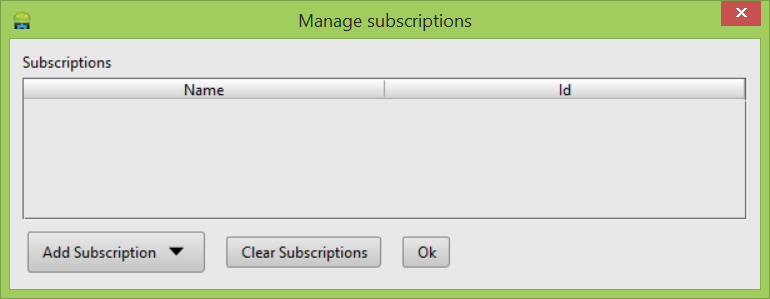
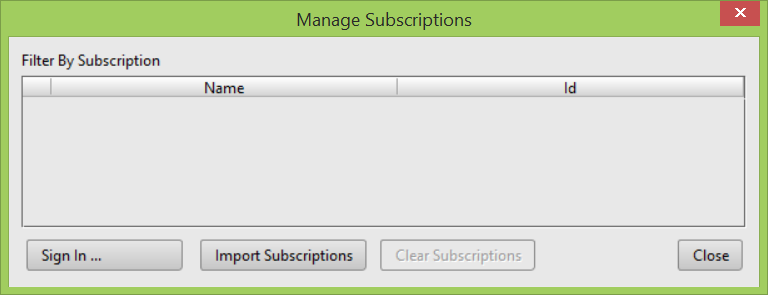
Documentation update

diff --git a/docs/Get Started MSOpenTechTools For Android.md b/docs/Get Started MSOpenTechTools For Android.md
@@ -1,8 +1,9 @@
-# Get started with MS Open Tech Tools for Android #
-This tutorial shows you how to add a cloud-based backend services to an Android app using Azure Mobile Services, Notification Hub and Office365 Services. 
+# Get started with MS Open Tech Tools for Android #
+This tutorial shows you how to install MS Open Tech Tools for Android, add cloud-based back-end services to an Android app using Azure Mobile Services, Notification Hub, and Office365 Services. It also provides a Services Explorer tool window to manage Azure assets like Azure Virtual Machine or Azure Mobile Services.
+ 
 ### Prerequisites ##
-This tutorial is based on a Microsoft Services plugin that is working with both [IntelliJ IDEA](http://www.jetbrains.com/idea/) and [Android Studio](http://developer.android.com/sdk/installing/studio.html). 
-At minimum you’ll need to install the: 
+The Microsoft Services plugin works with both [IntelliJ IDEA](http://www.jetbrains.com/idea/) and [Android Studio](http://developer.android.com/sdk/installing/studio.html). 
+To use the plugin, you must install the following : 
 
 1. Android SDK - [http://developer.android.com/sdk/index.html](http://developer.android.com/sdk/index.html) minimum version is Android 2.3 / API 9. 
 
@@ -11,22 +12,23 @@ At minimum you’ll need to install the:
 Once you have the Azure account, download the .publishsettings file 
 [https://manage.windowsazure.com/publishsettings](https://manage.windowsazure.com/publishsettings) 
 
-For windows OS you may need to manually install the appropriate Open SSL version to your local machine and add that location in the system environment variable PATH.
+In addition, you must have Open SSL installed. Many Linux distributions have pre-compiled OpenSSL packages installed. For the Windows OS, you can  manually install latest Open SSL version from [http://www.openssl.org/about/binaries.html](http://www.openssl.org/about/binaries.html)
+
+Once you have installed Open SSL to your local machine, add the installation location to the system environment variable PATH.
 
 For example, if you run on Win64 you’ll need to install Win64 OpenSSL v1.0.1j. to local folder for example C:\OpenSSL-Win64\. After installation is complete open the Windows System environment variables and in the PATH add “C:\OpenSSL-Win64\bin”.
+
 ### Install Microsoft Open Tech Plugin  
-Both IntelliJ and Android Studio allows to install the plugin by browsing repositories or by installing the plugin from the disk.
- 
-Unless you contribute to the open source repository from GitHub we recommend you to download the plugin from the Jet Brains repository instead of downloading the one from GitHub   [https://github.com/MSOpenTech/msopentech-tools-for-intellij](https://github.com/MSOpenTech/msopentech-tools-for-intellij) on your local folder. 
 
-Install Plugin inside IntelliJ or Android Studio
+Both IntelliJ and Android Studio allow you to install the plugin by following the usual plugin installation steps that involves navigating to File > Settings > Plugins.
 
-Developer follows the usual plugin installation steps provided by IntelliJ by going to File > Settings >Plugins
 In the Settings window select Plugins and in the Plugin window select Browse repositories. 
 
-![](https://raw.githubusercontent.com/MSOpenTech/msopentech-tools-for-intellij/master/docs/media/IntelliJ_InstallPlugin.png?token=AFgG-AymdnnkT9cj1uKO98LMXdLGIcnlks5UWDaPwA%3D%3D)
+![](./media/IntelliJ_InstallPlugin_Browse.png)
  
-Search by MSOpenTech or Android or Azure ...
+You may search for the plugin by using keywords like "MSOpenTech" or "Azure" or "Office". 
+
+### Install the plugin inside IntelliJ or Android Studio
 
 ![](https://raw.githubusercontent.com/MSOpenTech/msopentech-tools-for-intellij/master/docs/media/IntelliJ_InstallPlugin_Browse.png?token=AFgG-G40JYAZvn3Mu65bW8JTfSW_dCrkks5UWDbXwA%3D%3D)
  
@@ -84,9 +86,9 @@ In the activity template select the services you are interested in. Based on you
 
 This will prompt you to set up the Azure subscriptions and manage the Azure Mobile service you want to connect to the project without having to go back and forth between the Azure portal and Android Studio. 
 
-### B.	Manage Subscriptions ##
+### <a name="managesub">B.	Manage Subscriptions<a/> ##
 
-![](https://raw.githubusercontent.com/MSOpenTech/msopentech-tools-for-intellij/master/docs/media/AS_ManageSubscriptionsEmpty.png?token=AFgG-AyTNLfHOfPhLYRLfPxOawUG_6v8ks5UWDpbwA%3D%3D)
+![](./media/AS_ManageSubscriptionsEmpty.png)
  
 To get the Azure subscription you need to either download the Azure publish settings file by selecting Add Subscription/Import either by selecting the Add Subscription/SignIn
 
@@ -139,7 +141,7 @@ After selecting Next button you will be prompted with the summary of the changes
  
 The following was created to the project: helper classes for Notification Hub and Azure Mobile Services and an Azure Service Activity.  Inside the Azure Service activity you will see a starter code that obtains the mobileServiceClient object for basic operations with the tables and custom APIs and an example of how to configure the NotificationHub. 
 
-# [MISSING IMAGE]  #
+
  
 ### Connect to an Azure Mobile Service and Notification Hub and generate the helper classes ##
 ### A.	Create an Azure Services Activity 
@@ -157,7 +159,7 @@ Clicking Finish will allow developer to login and register to the Office365 serv
  
 After selecting the appropriate permissions for the application the developer will see a screen with the summary of all the changes applied to the project.  
 
-![](https://raw.githubusercontent.com/MSOpenTech/msopentech-tools-for-intellij/master/docs/media/AS_SummaryOffice365.png?token=AFgG-Gdv5_wR81CSEOW2fucs07Alw68dks5UWD4-wA%3D%3D)
+![](./media/AS_SummaryOffice365.png)
 
 The following SDKs are added to the project in the libraries:
 
@@ -172,3 +174,57 @@ This following java classes will be generated
 -	ListServicesClient 
 
 ![](https://raw.githubusercontent.com/MSOpenTech/msopentech-tools-for-intellij/master/docs/media/AS_Office365HelperClass.png?token=AFgG-H-mCCuyFWfHjjlVrp1gmFi__69hks5UWD3DwA%3D%3D)
+
+### Using The Services Explorer
+
+The IntelliJ and Android Studio plugin has a Services Explorer that allows you to manage Microsoft Azure services without having to open a browser and log in to the Azure management portal.
+Currently the Services Explorer allows you to manage Azure Mobile Services and Virtual Machines. 
+
+![](media/MSOTToolServiceExplorer01.png)
+
+The following procedure shows you how to create and manage a VM using the Services Explorer.
+
+Go to View > Tool Windows > Services Explorer from the menu bar to open the Services Explorer navigation tree.
+
+![](media/MSOTToolQuickAccessMenu.png)
+
+Before you can create a VM you must sign in to your subscription or import your Azure publish settings file. 
+
+To manage your subscriptions, right click the Azure root node in the navigation tree. For more information on importing the settings, see the <a href="#managesub">Manage Subscriptions</a> section above.
+
+Once you have finished signing in, you can create a new VM.
+
+Expand the Azure root node and right click Virtual Machines, then select Create VM from the context menu.
+
+On the Create new Virtual Machine Subscription dialog, from the dropdown, select the subscription in which you will create the new VM and click Next.
+
+On the Create new Virtual Machine Select Image dialog, select image from which to create your new VM. 
+
+![](media/MSOTToolCreateVM07.png)
+
+On the Create new Virtual Machine Machine Settings dialog, enter a name for the virtual machine that you will use to identify it. This name should be descriptive of how you are using the VM, but short enough to be easy to use.
+From the Size dropdown, select a size for your VM.
+Enter a user name and password for the administrative user of the VM and click Next.
+
+![](media/MSOTToolCreateVM08.png)
+
+On the Create new Virtual Machine Cloud Service dialog, select the Cloud service and Storage account in which the VM will be created. If you are creating a Cloud Service and Storage account, the names you select must be unique within all of Microsoft Azure.
+
+![](media/MSOTToolCreateVM09.png)
+
+On the Create new Virtual Machine Endpoints dialog, add any additional endpoints that your VM will use and click Next. For example, this is where you would add endpoint for SSH.
+
+![](media/MSOTToolCreateVM12.png)
+
+### Managing VMs
+
+Once you have created a VM, it shows up in your Services Explorer navigation tree under the Virtual Machines node.
+
+To manage your VM, you can right click the machine name to open the management context menu.
+
+
+![](media/MSOTToolManageVM.png)
+
+From the context menu, you can Start, Restart, Shutdown, Refresh, and Delete the VM as needed.
+
+You can also create an RDP session file that you can use to open an RDP connection to Windows VMs.
